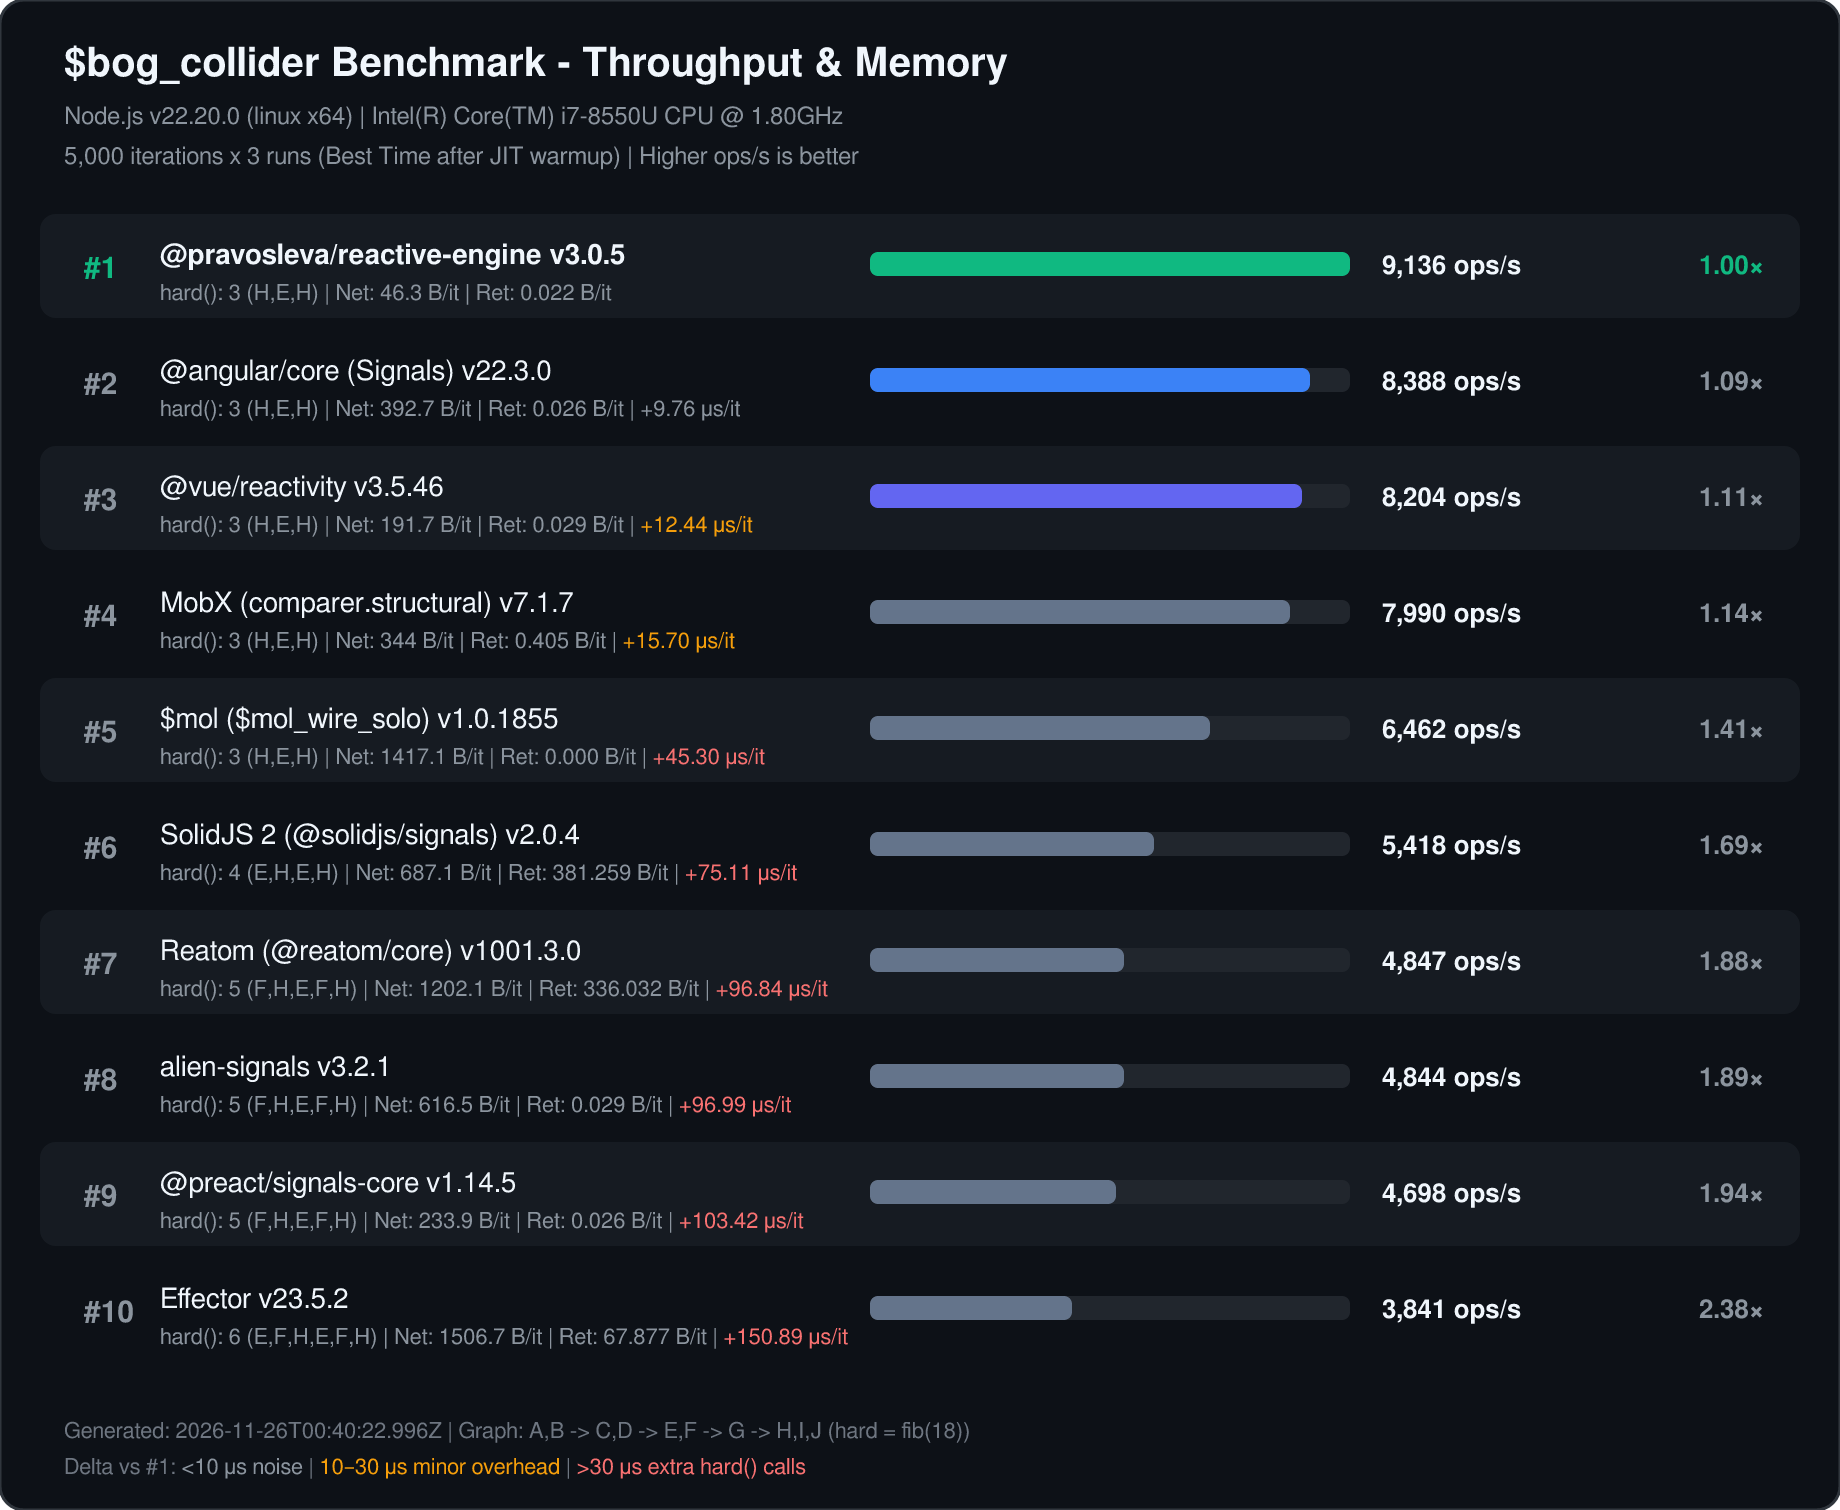
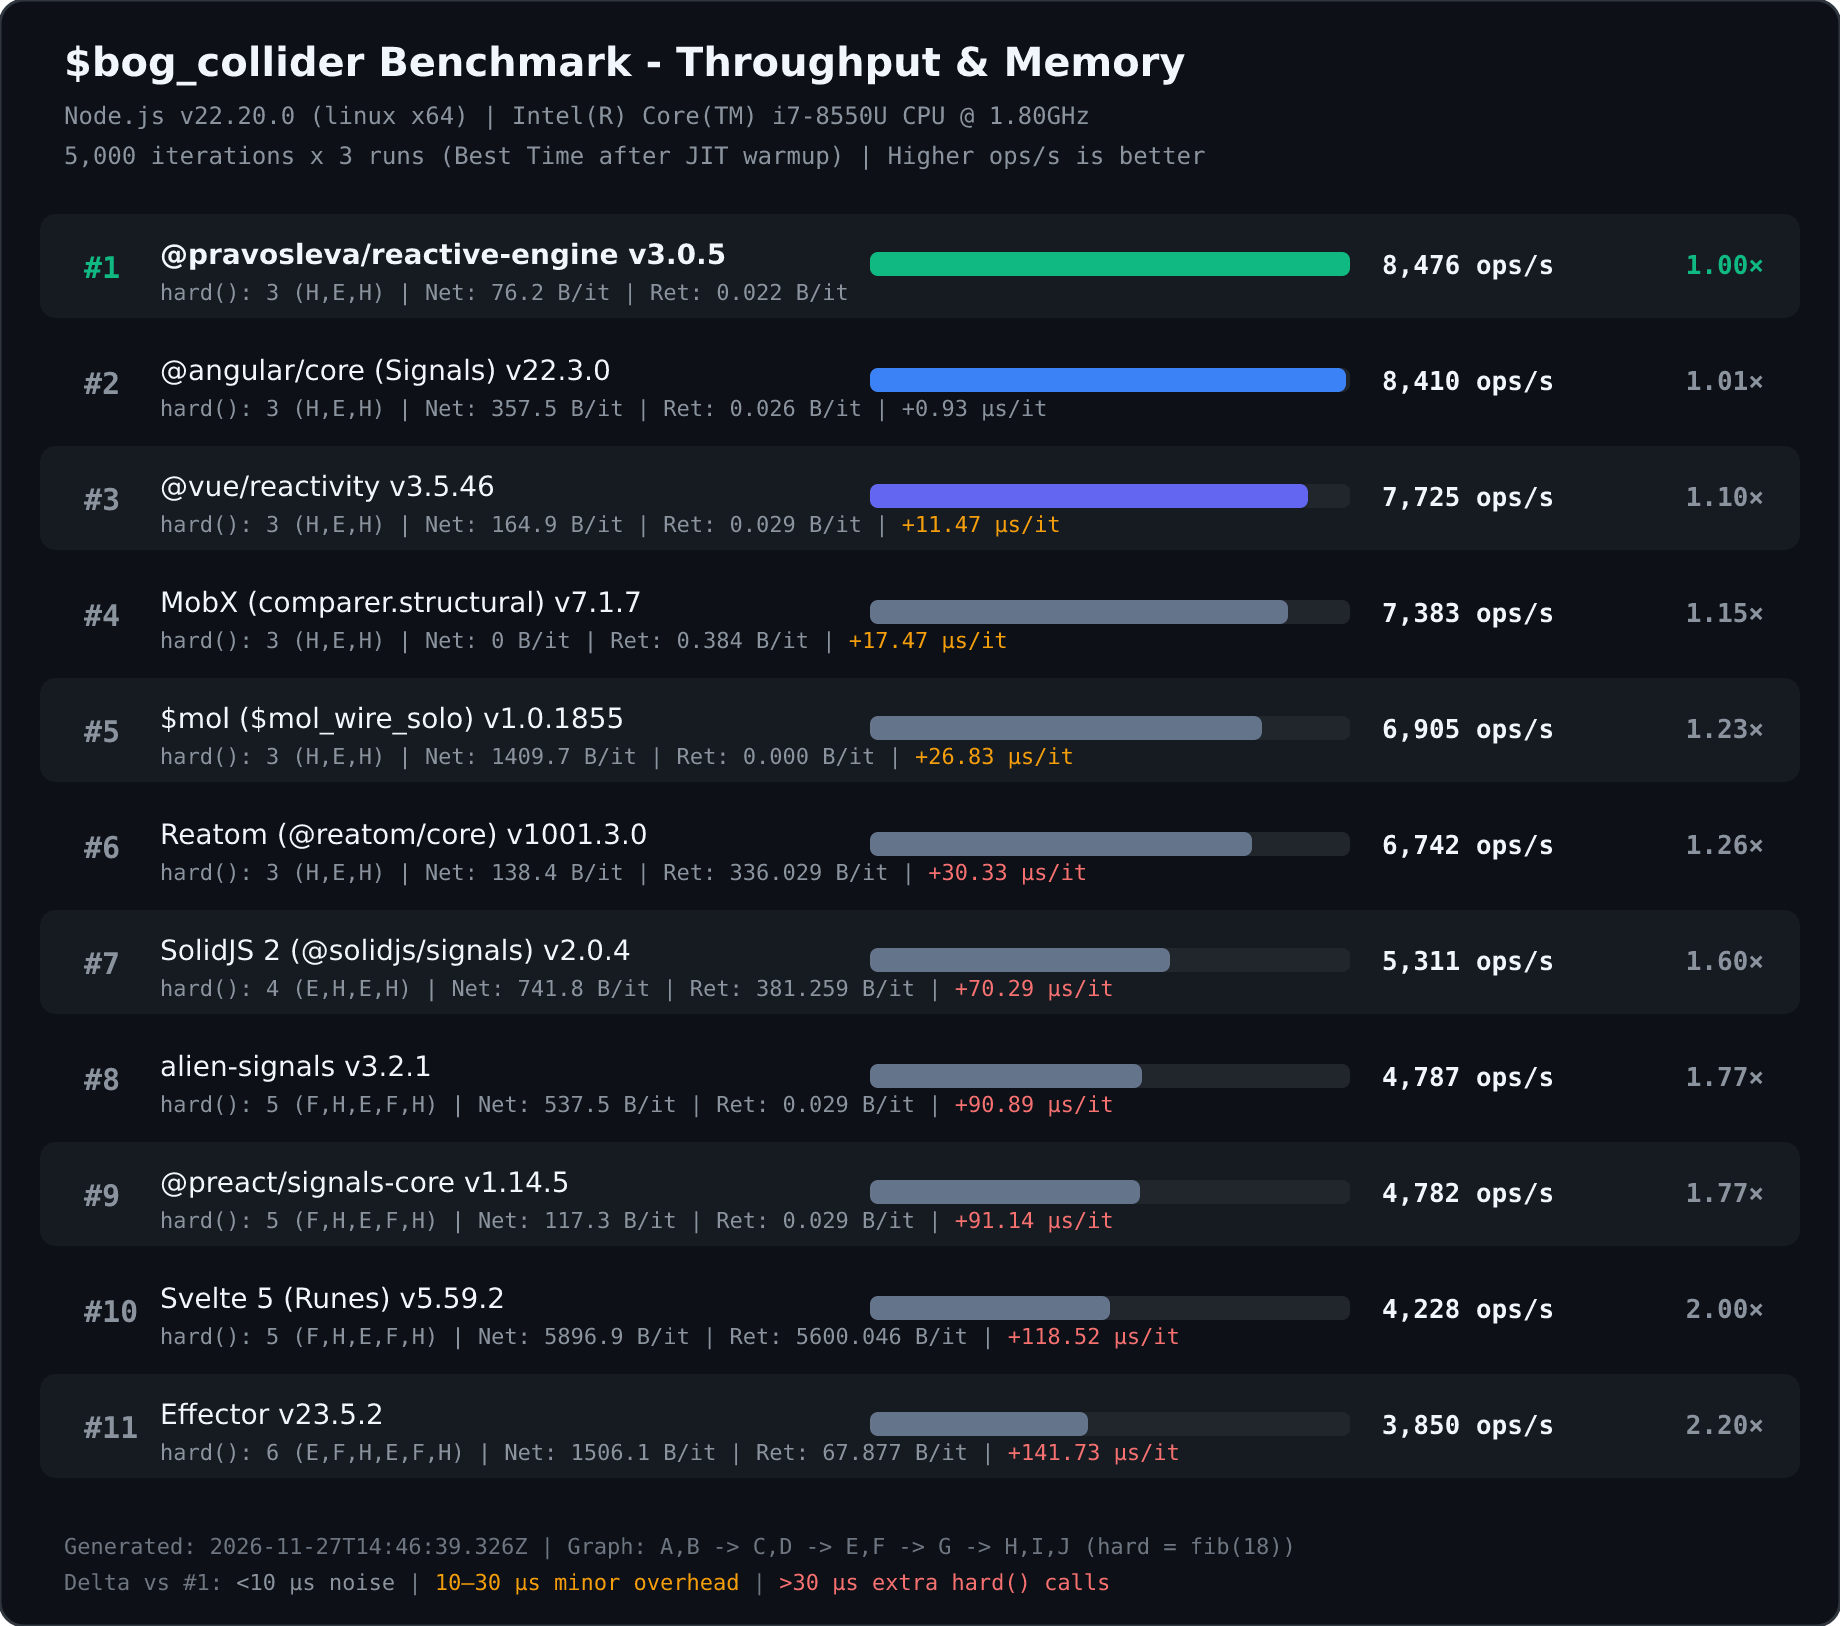
reatom adapter fixed; svelte v5 added; results refreshed

diff --git a/README.md b/README.md
@@ -46,7 +46,7 @@
 
 ## Параметры стенда
 
-* **Дата замера:** 26 нояб. 2026 г., 03:40
+* **Дата замера:** 27 нояб. 2026 г., 17:46
 * **Среда:** Node.js `v22.20.0` (`linux x64`)
 * **Процессор:** `Intel(R) Core(TM) i7-8550U CPU @ 1.80GHz`
 * **Нагрузка:** `5 000` двухшаговых итераций × `3` контрольных прогона (учитывается минимальное время после JIT-прогрева)
@@ -56,16 +56,17 @@
 
 | Rank | Engine | `hard()` calls | Best Time (ms) | ops/sec | Alloc (B/iter) | Net Alloc (B/iter) | Retained (B/iter) | Ratio |
 | :---: | :--- | :---: | :---: | :---: | :---: | :---: | :---: | :---: |
-| **1** | **@pravosleva/reactive-engine `v3.0.5`** | `3 (H,E,H)` | `547.26` | `9136` | `305.1` | `46.3` | `0.022` | `1.00×` |
-| **2** | @angular/core (Signals) `v22.3.0` | `3 (H,E,H)` | `596.08` | `8388` | `578.3` | `392.7` | `0.026` | `1.09×` |
-| **3** | @vue/reactivity `v3.5.46` | `3 (H,E,H)` | `609.46` | `8204` | `426` | `191.7` | `0.029` | `1.11×` |
-| **4** | MobX (comparer.structural) `v7.1.7` | `3 (H,E,H)` | `625.76` | `7990` | `569.4` | `344` | `0.405` | `1.14×` |
-| **5** | $mol ($mol_wire_solo) `v1.0.1855` | `3 (H,E,H)` | `773.78` | `6462` | `1669.4` | `1417.1` | `0.000` | `1.41×` |
-| **6** | SolidJS 2 (@solidjs/signals) `v2.0.4` | `4 (E,H,E,H)` | `922.79` | `5418` | `1363.2` | `687.1` | `381.259` | `1.69×` |
-| **7** | Reatom (@reatom/core) `v1001.3.0` | `5 (F,H,E,F,H)` | `1031.46` | `4847` | `1464.3` | `1202.1` | `336.032` | `1.88×` |
-| **8** | alien-signals `v3.2.1` | `5 (F,H,E,F,H)` | `1032.19` | `4844` | `796.6` | `616.5` | `0.029` | `1.89×` |
-| **9** | @preact/signals-core `v1.14.5` | `5 (F,H,E,F,H)` | `1064.36` | `4698` | `423.8` | `233.9` | `0.026` | `1.94×` |
-| **10** | Effector `v23.5.2` | `6 (E,F,H,E,F,H)` | `1301.7` | `3841` | `1765.9` | `1506.7` | `67.877` | `2.38×` |
+| **1** | **@pravosleva/reactive-engine `v3.0.5`** | `3 (H,E,H)` | `589.93` | `8476` | `305.1` | `76.2` | `0.022` | `1.00×` |
+| **2** | @angular/core (Signals) `v22.3.0` | `3 (H,E,H)` | `594.56` | `8410` | `578.3` | `357.5` | `0.026` | `1.01×` |
+| **3** | @vue/reactivity `v3.5.46` | `3 (H,E,H)` | `647.28` | `7725` | `426` | `164.9` | `0.029` | `1.10×` |
+| **4** | MobX (comparer.structural) `v7.1.7` | `3 (H,E,H)` | `677.26` | `7383` | `219.6` | `0` | `0.384` | `1.15×` |
+| **5** | $mol ($mol_wire_solo) `v1.0.1855` | `3 (H,E,H)` | `724.08` | `6905` | `1670.9` | `1409.7` | `0.000` | `1.23×` |
+| **6** | Reatom (@reatom/core) `v1001.3.0` | `3 (H,E,H)` | `741.57` | `6742` | `414.2` | `138.4` | `336.029` | `1.26×` |
+| **7** | SolidJS 2 (@solidjs/signals) `v2.0.4` | `4 (E,H,E,H)` | `941.39` | `5311` | `1364.1` | `741.8` | `381.259` | `1.60×` |
+| **8** | alien-signals `v3.2.1` | `5 (F,H,E,F,H)` | `1044.4` | `4787` | `796.6` | `537.5` | `0.029` | `1.77×` |
+| **9** | @preact/signals-core `v1.14.5` | `5 (F,H,E,F,H)` | `1045.64` | `4782` | `375.7` | `117.3` | `0.029` | `1.77×` |
+| **10** | Svelte 5 (Runes) `v5.59.2` | `5 (F,H,E,F,H)` | `1182.53` | `4228` | `6498.4` | `5896.9` | `5600.046` | `2.00×` |
+| **11** | Effector `v23.5.2` | `6 (E,F,H,E,F,H)` | `1298.56` | `3850` | `1765.9` | `1506.1` | `67.877` | `2.20×` |
 
 ## Легенда колонок
 
